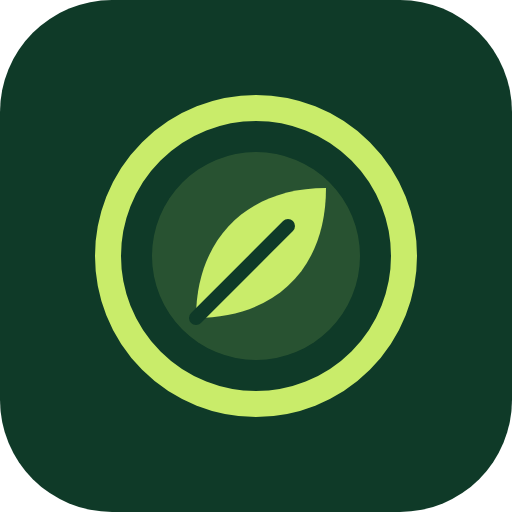
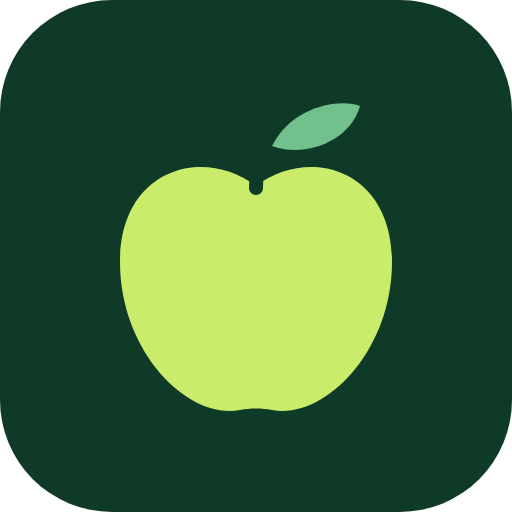
Comidas: icono de manzana y portada en Claude
- Icono nuevo (manzana lima sobre verde) en la web de comidas y en el acceso
  /ir/dieta.html; PNG regenerados con npm run iconos:dieta.
- Versión de Claude: portada con el icono (thumb.png) e icono de manzana.
- La portada no entra en la caché offline.

Claude-Session: https://claude.ai/code/session_014PkRCioZKJrJBmusroirgR

Changed region(s): [[0.1875, 0.1875, 0.8125, 0.8125]]

diff --git a/vite.dieta.config.ts b/vite.dieta.config.ts
@@ -43,6 +43,7 @@ export default defineConfig({
       },
       workbox: {
         globPatterns: ['**/*.{js,css,html,svg,png,woff2}'],
+        globIgnores: ['**/portada.png'],
         navigateFallback: 'index.html',
         cleanupOutdatedCaches: true
       }
